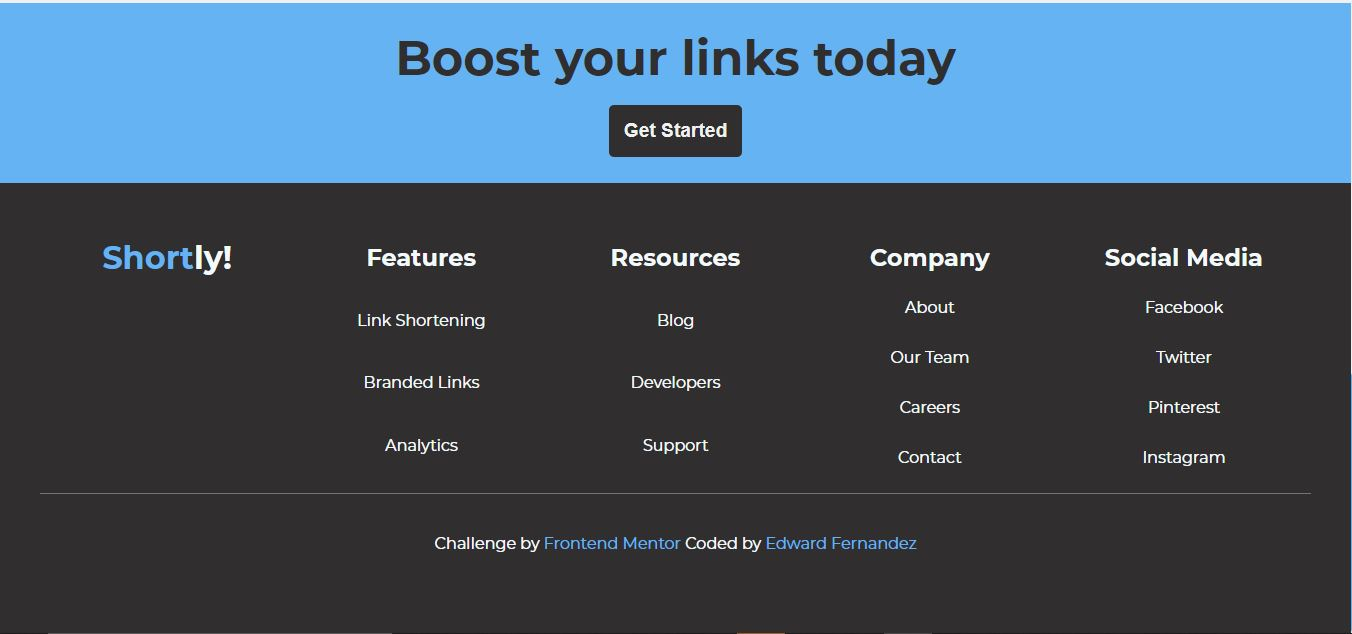
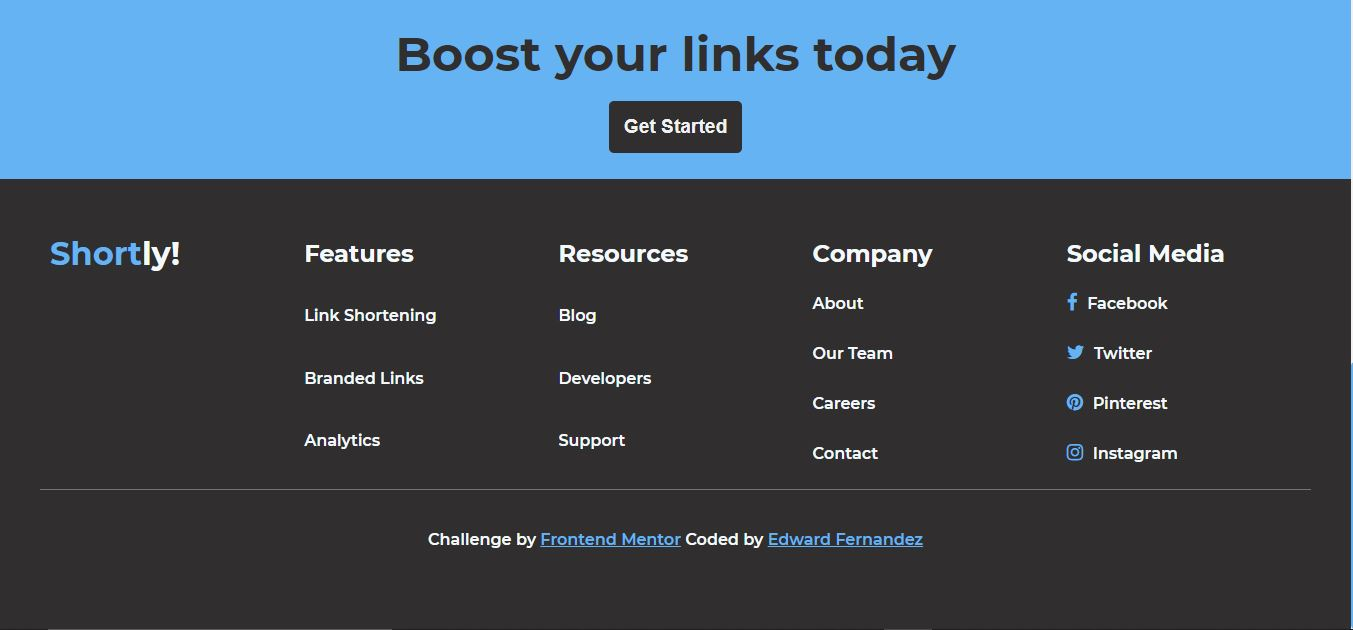
Final

diff --git a/styles/index.scss b/styles/index.scss
@@ -537,7 +537,7 @@ img {
   /* ============================== Footer ============================== */
   .footer-container {
     width: 100%;
-    text-align: start;
+    text-align: center;
 
     .message {
       background-color: var(--hero-color);
@@ -611,6 +611,7 @@ img {
   /* Laptop & Table */
   @media screen and (min-width: 788px) {
     .footer-container {
+      text-align: start;
       .message {
         h3 {
           font-size: 2rem;

diff --git a/styles/index.css b/styles/index.css
@@ -567,7 +567,7 @@ img {
 
 .main-container .footer-container {
   width: 100%;
-  text-align: start;
+  text-align: center;
 }
 
 .main-container .footer-container .message {
@@ -641,6 +641,9 @@ img {
 }
 
 @media screen and (min-width: 788px) {
+  .main-container .footer-container {
+    text-align: start;
+  }
   .main-container .footer-container .message h3 {
     font-size: 2rem;
   }
